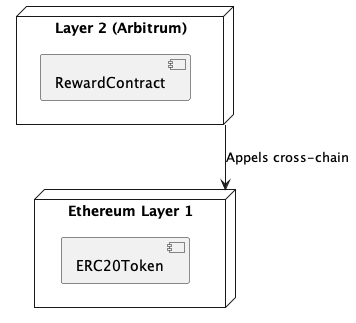
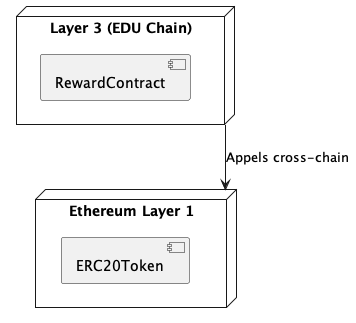
version finale du rapport, ou presque

diff --git a/ADR/ADR-002-layer3-edu-chain.md b/ADR/ADR-002-layer3-edu-chain.md
@@ -1,0 +1,53 @@
+# ADR-002 - Choix d'Ethereum Layer 3 (EDU Chain)
+
+**Statut** : En attente  
+**Date** : 2025-02-20  
+**Décideurs** : CTO, Équipe Blockchain  
+
+## Contexte  
+
+Frais de transaction (gas) prohibitifs sur Ethereum Mainnet pour les micro-transactions de tokens, avec besoin d'une solution scalable spécifique à notre écosystème éducatif.  
+
+## Options considérées  
+
+1. **Rester sur Ethereum L1**  
+   - _Avantages_ : Sécurité maximale, décentralisation.  
+   - _Inconvénients_ : Coût >1$ par transaction, limite l'adoption pour les cas d'usage éducatifs.  
+
+2. **Migrer vers un Layer 2 généraliste (Arbitrum/Polygon)**  
+   - _Avantages_ : Frais réduits, compatibilité EVM.  
+   - _Inconvénients_ : Non optimisé pour les flux pédagogiques, moindre contrôle.  
+
+3. **Développer EDU Chain (Layer 3 custom sur Arbitrum)**  
+   - _Avantages_ :  
+     - Frais quasi-nuls pour les étudiants/enseignants  
+     - Possibilité d'intégrer des primitives métier (badges, parcours certifiants)  
+     - Interopérabilité maintenue avec L2/L1 via bridges  
+   - _Inconvénients_ :  
+     - Effort initial de développement  
+     - Nécessité de gérer des validateurs dédiés  
+
+## Décision  
+
+**Option 3 (EDU Chain)** avec architecture hybride :  
+
+- **L1 Ethereum** : Ancrage de sécurité pour les assets critiques  
+- **L2 Arbitrum** : Liquidité et interconnexion avec l'écosystème DeFi  
+- **L3 EDU Chain** :  
+  - Rollup optimiste custom  
+  - Whitelist d'opérations éducatives gasless  
+  - Modules spécifiques pour la gouvernance académique  
+
+## Conséquences  
+
+- _Positives_ :  
+  - Expérience utilisateur idéale pour les établissements partenaires  
+  - Possibilité d'innovations pédagogiques on-chain  
+
+- _Négatives_ :  
+  - Surcharge opérationnelle initiale  
+  - Courbe d'apprentissage pour les utilisateurs non techniques  
+
+- _Risques_ :  
+  - Sécurité du stack L3 encore émergente  
+  - Effet réseau à construire sur la chaîne dédiée  

diff --git a/ADR/ADR-001-proxy-upgradable.md b/ADR/ADR-001-proxy-upgradable.md
@@ -1,6 +1,6 @@
 # ADR-001 - Utilisation d'un Proxy Upgradable pour les contrats  
-**Statut** : Approuvé  
-**Date** : 2025-03-15  
+**Statut** : En attente  
+**Date** : 2025-03-15
 **Décideurs** : Architecte blockchain, Lead Dev  
 
 ## Contexte  

diff --git a/ADR/ADR-003-erc20-standard.md b/ADR/ADR-003-erc20-standard.md
@@ -1,6 +1,6 @@
 # ADR-003 - Implémentation du Standard ERC-20 au lieu d'ERC-777
 
-**Statut** : Approuvé  
+**Statut** : En attente  
 **Date** : 2025-01-10  
 **Décideurs** : Équipe Sécurité, Smart Contract Devs
 
